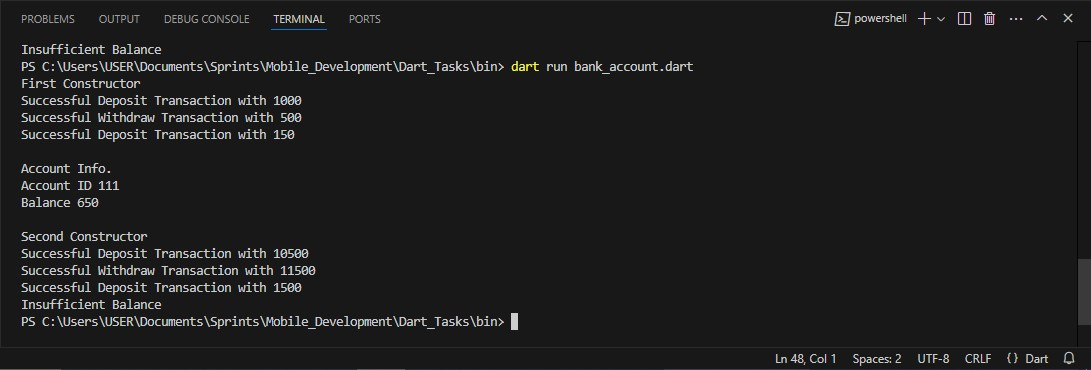
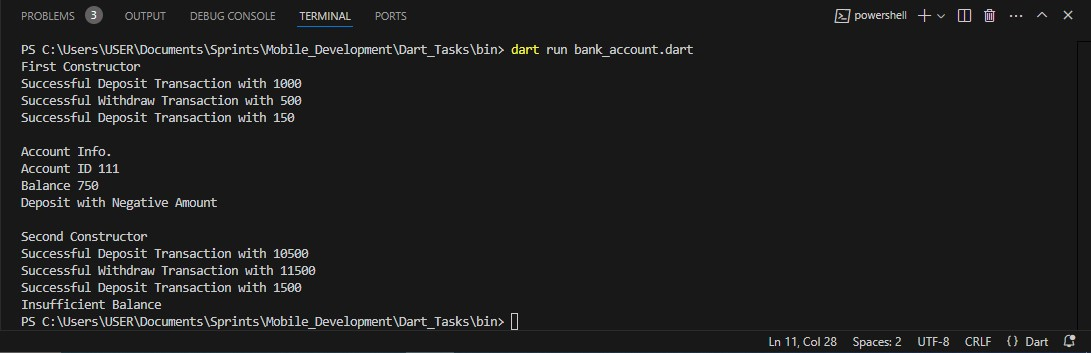
modify bank account

diff --git a/Dart_Tasks/bin/bank_account.dart b/Dart_Tasks/bin/bank_account.dart
@@ -2,13 +2,13 @@ class BankAccount {
   int _accountID;
   int _balance;
 
-  BankAccount(int accountID): this.balance(accountID, 0); // first constructor
+  BankAccount(this._accountID, this._balance); // first constructor
 
   BankAccount.balance(this._accountID, [this._balance = 0]); // second constructor (named constructor)
 
   void withdraw(int amount) {
     if (amount < 0) {
-      throw 'Negative Amount';
+      throw 'Withdraw with Negative Amount';
     }
 
     if (amount <= _balance) {
@@ -21,6 +21,9 @@ class BankAccount {
   }
 
   void deposit(int amount) {
+    if (amount < 0) {
+      throw 'Deposit with Negative Amount';
+    }
     _balance += amount;
     print("Successful Deposit Transaction with $amount");
   }
@@ -36,10 +39,12 @@ void main(List<String> arguments) {
   // With First Constructor
   print("First Constructor");
   try {
-    var bank1 = BankAccount(111);
+    var bank1 = BankAccount(111, 100);
     bank1.deposit(1000);
     bank1.withdraw(500);
     bank1.deposit(150);
+    bank1.accountInfo();
+    bank1.deposit(-50);
     bank1.accountInfo();
   }
   catch (e) {
